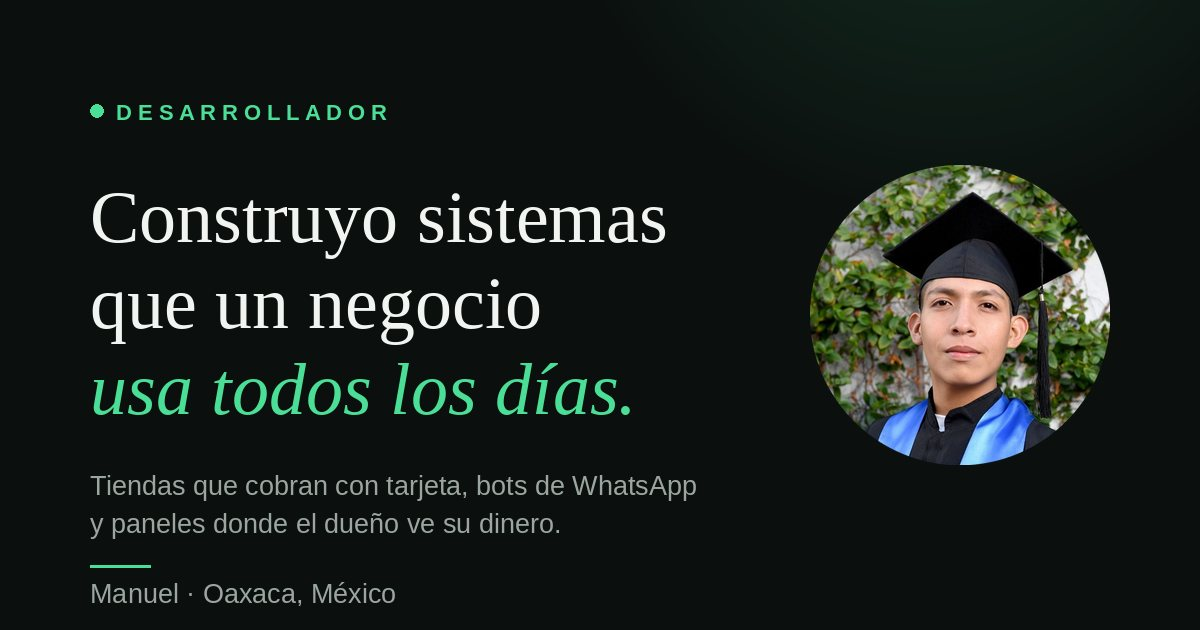
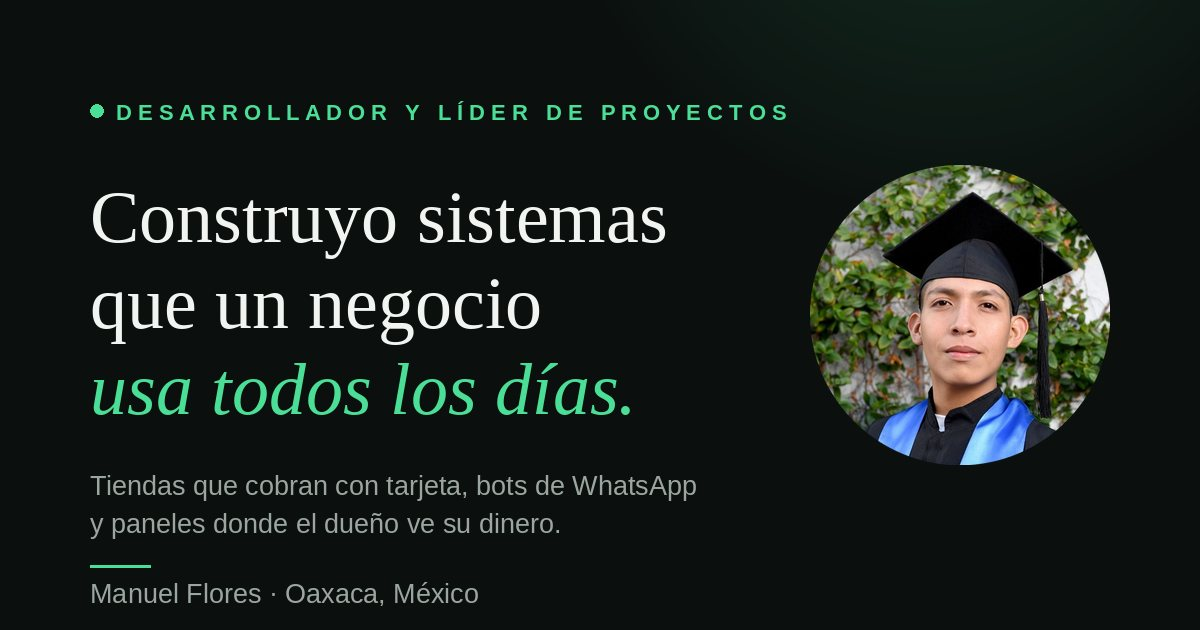
Portafolio: teclado, lector de pantalla, mi apellido y lo que de verdad hago
Accesibilidad: enlace para saltar al contenido, anillo de foco verde de
3 px, regiones (banner, main, pie), el nav con nombre y los enlaces que
abren otra pestana lo dicen. Probado con tabulador en el navegador: el
orden va menu, portada, botones, sin saltos raros.

Y dos correcciones de fondo: soy Manuel Flores, no Acevedo, y no solo
programo los proyectos, los administro y los dirijo. Eso ahora se lee
en el titulo, en la portada, en "Quien soy" y en la tarjeta del link.

Changed region(s): [[0.3392, 0.1508, 0.6475, 0.2111], [0.1542, 0.9048, 0.4008, 0.9651]]

diff --git a/index.html b/index.html
@@ -3,11 +3,11 @@
 <head>
 <meta charset="utf-8">
 <meta name="viewport" content="width=device-width, initial-scale=1">
-<title>Manuel Acevedo · Desarrollador</title>
-<meta name="description" content="Construyo sistemas que un negocio usa todos los días: tiendas en línea, cobros con tarjeta, bots de WhatsApp y paneles. Node.js, MongoDB, Stripe y WhatsApp Cloud API.">
+<title>Manuel Flores · Desarrollador y líder de proyectos</title>
+<meta name="description" content="Dirijo y construyo sistemas que un negocio usa todos los días: tiendas en línea, cobros con tarjeta, bots de WhatsApp y paneles. Del primer acuerdo con el cliente hasta el servidor donde queda corriendo.">
 <meta name="theme-color" content="#0B0F0E">
-<meta property="og:title" content="Manuel Acevedo · Desarrollador">
-<meta property="og:description" content="Sistemas en producción: una florería que vende en línea, un bot que cobra por WhatsApp a 1,090 clientes, inscripciones a carreras.">
+<meta property="og:title" content="Manuel Flores · Desarrollador y líder de proyectos">
+<meta property="og:description" content="Llevo el proyecto completo: lo acuerdo con el cliente, lo construyo y respondo por él. Una florería que vende en línea, un bot que cobra por WhatsApp a 1,090 clientes, inscripciones a carreras.">
 <meta property="og:type" content="website">
 <link rel="canonical" href="https://cmaf23.github.io/Portafolio-Personal/">
 <link rel="icon" href="img/favicon.ico" sizes="any">
@@ -117,34 +117,41 @@ section{padding:clamp(50px,8vw,96px) 0;border-top:1px solid var(--linea)}
 .cierre .acciones{justify-content:center}
 .pie{border-top:1px solid var(--linea);padding:26px 0;color:var(--humo);font-size:.86rem}
 .pie .wrap{display:flex;justify-content:space-between;gap:12px;flex-wrap:wrap}
+:focus-visible{outline:3px solid var(--jade);outline-offset:3px;border-radius:6px}
+.saltar{position:absolute;left:-9999px;top:0;z-index:40;background:var(--jade);color:#06231A;font-weight:700;padding:12px 20px;border-radius:0 0 12px 0;text-decoration:none}
+.saltar:focus{left:0}
 @media (prefers-reduced-motion:reduce){*{animation:none!important;transition:none!important;scroll-behavior:auto}}
 </style>
 </head>
 <body>
 
-<div class="barra">
+<a class="saltar" href="#contenido">Saltar al contenido</a>
+
+<header class="barra">
   <div class="wrap">
-    <a class="marca" href="#"><b>Manuel</b> Acevedo</a>
-    <nav>
+    <a class="marca" href="#" aria-label="Inicio"><b>Manuel</b> Flores</a>
+    <nav aria-label="Secciones de la página">
       <a href="#trabajo">Lo que he construido</a>
       <a href="#sobre">Quién soy</a>
       <a href="#herramientas">Con qué</a>
       <a href="#contacto">Contacto</a>
-      <a href="https://github.com/CMAF23" target="_blank" rel="noopener">GitHub</a>
+      <a href="https://github.com/CMAF23" target="_blank" rel="noopener" aria-label="Mi GitHub, se abre en otra pestaña">GitHub</a>
     </nav>
   </div>
-</div>
+</header>
 
-<header class="portada">
+<main id="contenido">
+
+<section class="portada">
   <div class="wrap">
     <div class="hero">
       <div>
     <span class="ojo"><i></i> Disponible para proyectos</span>
     <h1>Construyo sistemas que un negocio <em>usa todos los días</em>.</h1>
-    <p class="lead">Desarrollador, de Oaxaca. No hago páginas bonitas que nadie abre: hago tiendas que cobran con tarjeta, bots de WhatsApp que levantan pedidos solos y paneles donde el dueño ve su dinero. Todo lo que está aquí abajo está funcionando, con clientes de verdad usándolo hoy.</p>
+    <p class="lead">Desarrollador y líder de proyectos, de Oaxaca. No solo escribo el código: me siento con el dueño, acuerdo qué se va a hacer, lo construyo, lo pongo en línea y respondo por él cuando ya está trabajando. Todo lo que está aquí abajo está funcionando, con clientes de verdad usándolo hoy.</p>
     <div class="acciones">
       <a class="btn lleno" href="#trabajo">Ver lo que he construido</a>
-      <a class="btn hueco" href="https://github.com/CMAF23" target="_blank" rel="noopener">GitHub</a>
+      <a class="btn hueco" href="https://github.com/CMAF23" target="_blank" rel="noopener" aria-label="Mi GitHub, se abre en otra pestaña">GitHub</a>
       <a class="btn hueco" href="#contacto">Hablemos</a>
     </div>
       </div>
@@ -163,7 +170,7 @@ section{padding:clamp(50px,8vw,96px) 0;border-top:1px solid var(--linea)}
       <div class="cifra"><b>700+</b><span>pruebas automáticas cuidándolos</span></div>
     </div>
   </div>
-</header>
+</section>
 
 <section id="trabajo">
   <div class="wrap">
@@ -192,7 +199,7 @@ section{padding:clamp(50px,8vw,96px) 0;border-top:1px solid var(--linea)}
           <div>Panel con lo que la dueña necesita a las siete de la mañana: qué sale hoy, qué falta armar, qué no se ha pagado.</div>
         </div>
         <div class="chips"><span class="chip">Node.js</span><span class="chip">MongoDB</span><span class="chip">Stripe Connect</span><span class="chip">WhatsApp Cloud API</span><span class="chip">Cloudinary</span><span class="chip">Render</span></div>
-        <a class="ver" href="https://floreriaaysel.com.mx" target="_blank" rel="noopener">Ver la tienda →</a>
+        <a class="ver" href="https://floreriaaysel.com.mx" target="_blank" rel="noopener" aria-label="Ver la tienda de Florería Aysel, se abre en otra pestaña">Ver la tienda <span aria-hidden="true">→</span></a>
       </article>
 
       <article class="obra">
@@ -235,7 +242,7 @@ section{padding:clamp(50px,8vw,96px) 0;border-top:1px solid var(--linea)}
           <div>Pantalla para inscribir en la puerta el día del evento.</div>
         </div>
         <div class="chips"><span class="chip">Node.js</span><span class="chip">MongoDB</span><span class="chip">Stripe</span></div>
-        <a class="ver" href="https://dinamitarunning.com.mx" target="_blank" rel="noopener">Ver el sitio →</a>
+        <a class="ver" href="https://dinamitarunning.com.mx" target="_blank" rel="noopener" aria-label="Ver el sitio de Dinamita Running, se abre en otra pestaña">Ver el sitio <span aria-hidden="true">→</span></a>
       </article>
 
       <article class="obra">
@@ -268,11 +275,12 @@ section{padding:clamp(50px,8vw,96px) 0;border-top:1px solid var(--linea)}
     <div class="sobre">
       <div>
         <p>Soy Manuel, de Oaxaca, y estudio Ingeniería en Computación. Lo que sé de verdad no lo aprendí en un salón: lo aprendí poniendo sistemas en manos de gente que los necesita para trabajar, y quedándome a arreglarlos cuando algo falla un martes a las siete de la mañana.</p>
-        <p>Trabajo bajo mi propia marca, <b>OBEX</b>. Ahí es donde salen los sistemas de arriba: un negocio me cuenta cómo trabaja hoy, y yo le entrego algo que lo hace solo.</p>
+        <p>Trabajo bajo mi propia marca, <b>OBEX</b>, y ahí soy quien lleva el proyecto: el que lo acuerda con el cliente, el que decide cómo se va a hacer, el que reparte el trabajo y el que da la cara cuando hay que entregar. Un negocio me cuenta cómo trabaja hoy, y yo le entrego algo que lo hace solo.</p>
       </div>
       <div class="valores">
         <div><h4>Autodidacta</h4><p>Casi todo lo que uso lo aprendí solo, contra un problema real que tenía que quedar funcionando.</p></div>
-        <div><h4>Le entro a todo el sistema</h4><p>De la pantalla que ve el cliente al servidor, la base de datos, el cobro y el servidor donde vive.</p></div>
+        <div><h4>Llevo el proyecto, no solo el código</h4><p>Acuerdo el alcance, pongo fechas, decido cómo se arma y voy avisando cómo va. El cliente trata con una sola persona.</p></div>
+        <div><h4>Le entro a todo el sistema</h4><p>De la pantalla que ve el cliente a la base de datos, el cobro y el servidor donde vive.</p></div>
         <div><h4>Cuido lo que entrego</h4><p>Los sistemas que hago traen pruebas automáticas: si algo se rompe, me entero yo antes que el cliente.</p></div>
       </div>
     </div>
@@ -332,14 +340,16 @@ section{padding:clamp(50px,8vw,96px) 0;border-top:1px solid var(--linea)}
     <p class="sub">Eso es justo lo que hago: tomar lo que hoy se resuelve con libretas, mensajes sueltos y llamadas, y dejarlo funcionando solo.</p>
     <div class="acciones">
       <a class="btn lleno" href="mailto:obex23.com@gmail.com">Escríbeme</a>
-      <a class="btn hueco" href="https://github.com/CMAF23" target="_blank" rel="noopener">Ver mi GitHub</a>
+      <a class="btn hueco" href="https://github.com/CMAF23" target="_blank" rel="noopener" aria-label="Mi GitHub, se abre en otra pestaña">Ver mi GitHub</a>
     </div>
   </div>
 </section>
 
+</main>
+
 <footer class="pie">
   <div class="wrap">
-    <span>Manuel Acevedo · Oaxaca, México</span>
+    <span>Manuel Flores · Oaxaca, México</span>
     <span>Hecho a mano, sin plantillas.</span>
   </div>
 </footer>
